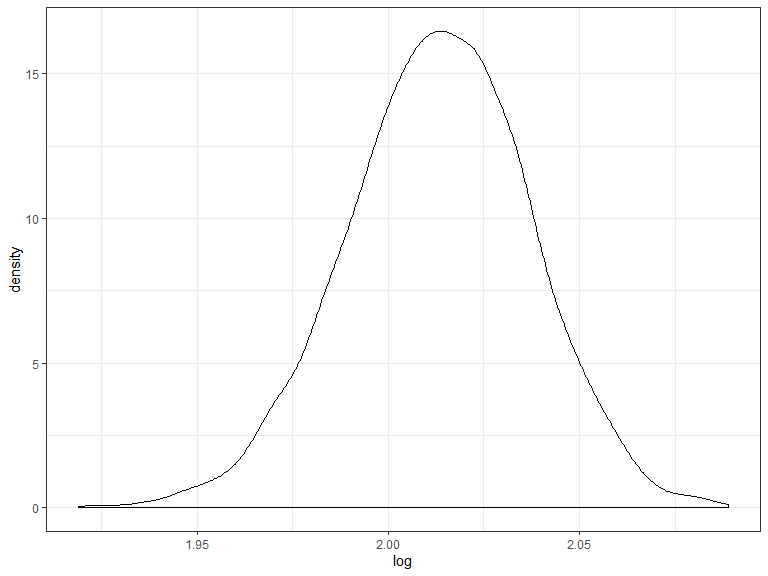
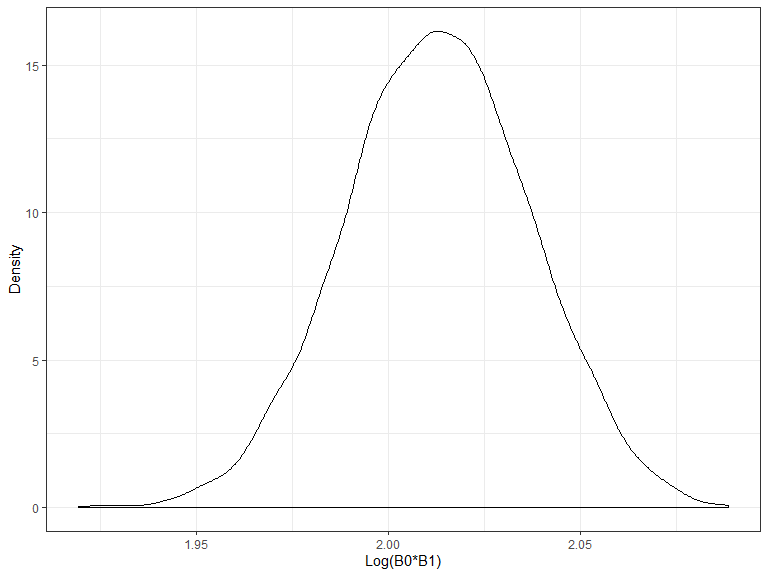
Added confidence intervals and comments on problems.

diff --git a/p8105_hw6_smm2316.md b/p8105_hw6_smm2316.md
@@ -47,8 +47,10 @@ birthweight %>%
 
 ``` r
 comp_model1 = lm(bwt ~ gaweeks + blength, data = birthweight)
-comp_model2 = lm(bwt ~ babysex * blength * bhead, data = birthweight)
+comp_model2 = lm(bwt ~ bhead + blength + babysex +  bhead*blength + bhead*babysex + blength*babysex + bhead*blength*babysex, data = birthweight)
 ```
+
+The model proposed includes variables known to be related to birthweight.
 
 ``` r
 cv_df = 
@@ -75,6 +77,8 @@ cv_plot
 ```
 
 <img src="p8105_hw6_smm2316_files/figure-markdown_github/Cross Validation-1.png" width="90%" />
+
+The cross validation plots indicate that model 3 has the lowest rmse and is the best model of birthweight of the three models proposed.
 
 ### Problem 2
 
@@ -125,24 +129,46 @@ b0b1 =
        values_from = estimate
     ) %>% 
     rename(beta1 = tmin, beta0 = `(Intercept)`) %>% 
-   mutate(log = log(beta0*beta1)) %>%
-  ggplot(aes(x = log)) + 
-  geom_density()
+   mutate(log = log(beta0*beta1)) 
 
-b0b1
+b0b1 %>%    
+  ggplot(aes(x = log)) + 
+  geom_density() + 
+  labs(x = "Log(B0*B1)", y = "Density")
 ```
 
-<img src="p8105_hw6_smm2316_files/figure-markdown_github/unnamed-chunk-1-1.png" width="90%" />
+<img src="p8105_hw6_smm2316_files/figure-markdown_github/problem 2-1.png" width="90%" />
+
+The plot of the log(B0B1) density shows a relatively normal distribution with some abnormality in the peak.
 
 ``` r
 r2 = 
   bootstraps %>%
   select(r2) %>%
-  unnest(r2) %>%
-  ggplot(aes(x = r.squared)) +
-           geom_density()
+  unnest(r2)
 
-r2
+r2 %>%    
+  ggplot(aes(x = r.squared)) +
+  geom_density() +
+  labs(x = "R Squared", y = "Density")
 ```
 
-<img src="p8105_hw6_smm2316_files/figure-markdown_github/unnamed-chunk-1-2.png" width="90%" />
+<img src="p8105_hw6_smm2316_files/figure-markdown_github/R2 plot-1.png" width="90%" />
+
+The plot of the r squared density shows a normal distribution with a slight left skew.
+
+``` r
+quantile(pull(b0b1, log), probs =c(0.025, 0.975))
+```
+
+    ##     2.5%    97.5% 
+    ## 1.965091 2.057094
+
+``` r
+quantile(pull(r2, r.squared), probs =c(0.025, 0.975))
+```
+
+    ##      2.5%     97.5% 
+    ## 0.8939023 0.9271771
+
+The 95% confidence interval for the log(B0B1) is 1.97 to 2.06. The 95% confidence interval for the r-squared is 0.89 to 0.93.
